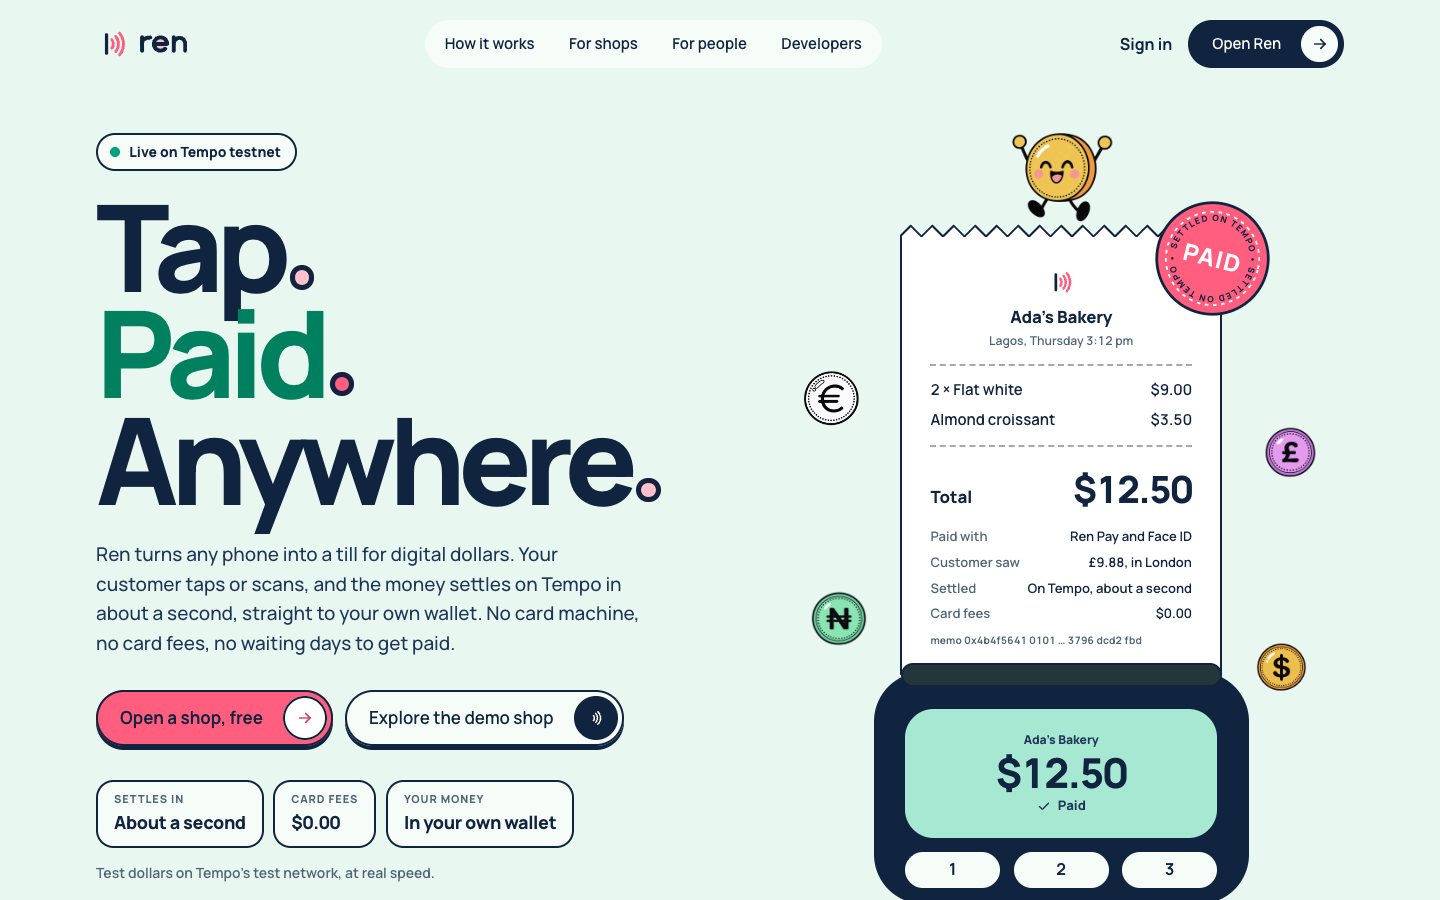
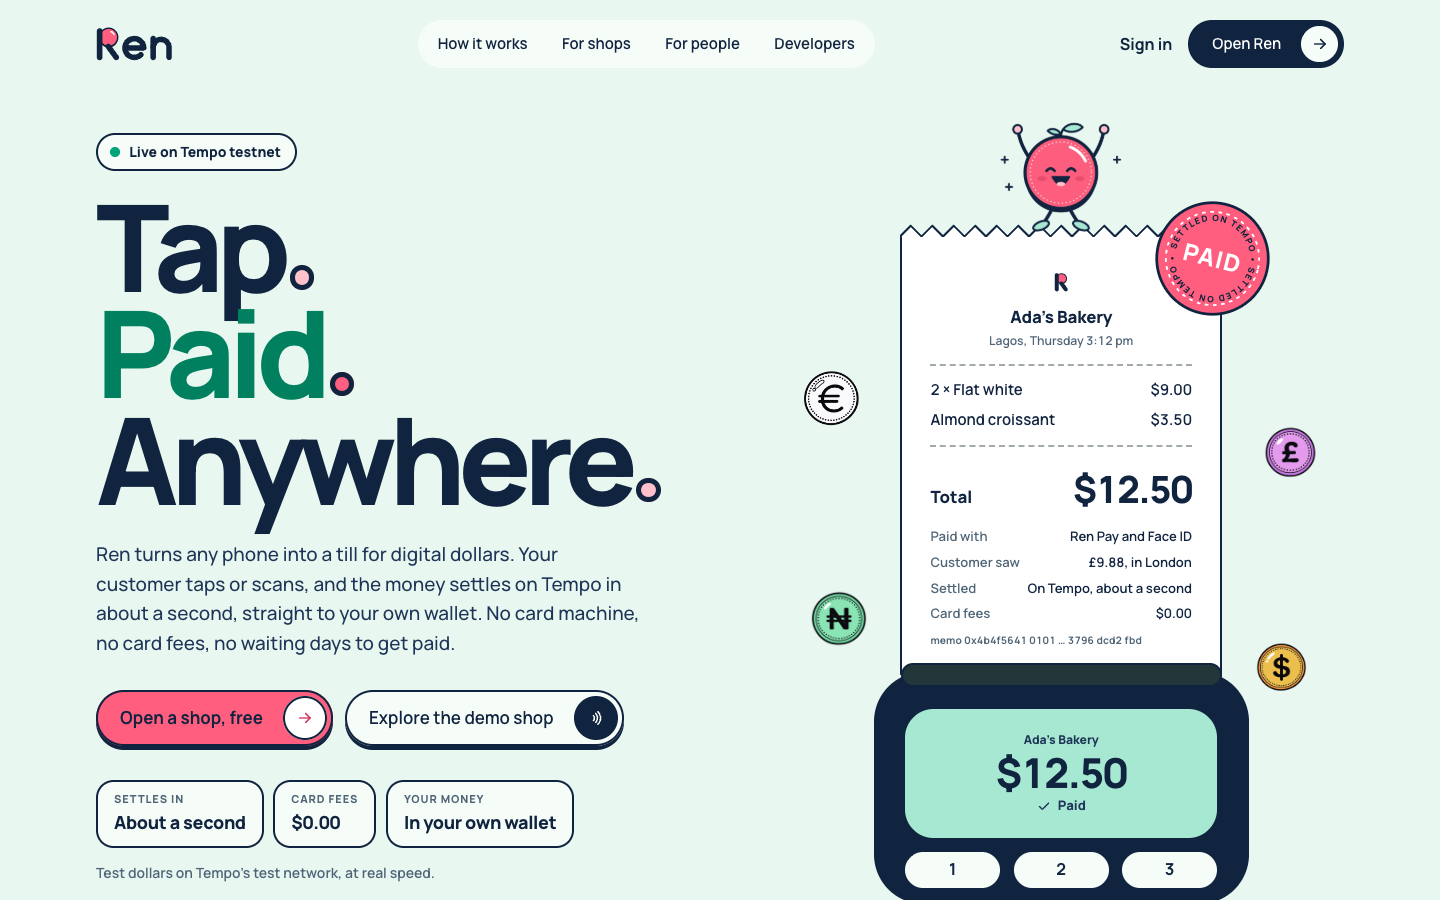
docs: show the R coin and Reni in the README
Fresh web and iOS screenshots with the new logo and mascot; the iOS row
shows Welcome and First run.

Claude-Session: https://claude.ai/code/session_019GbDh3SGeNszh631sn6uHH

diff --git a/README.md b/README.md
@@ -49,7 +49,7 @@ and on whose behalf, plus the network fee, so nobody needs a gas token to pay fo
 
 <table>
   <tr>
-    <td width="33%"><img src="docs/screenshots/ren/web-wallet-first-run.png" alt="A new wallet: zero balance, Kovi catching a coin, and three things to try"></td>
+    <td width="33%"><img src="docs/screenshots/ren/web-wallet-first-run.png" alt="A new wallet: zero balance, Reni catching a coin, and three things to try"></td>
     <td width="33%"><img src="docs/screenshots/ren/web-wallet-phone.png" alt="Wallet home on a phone: the balance, Pay, Send, Request and your shop"></td>
     <td width="33%"><img src="docs/screenshots/ren/web-dashboard-phone.png" alt="The shop dashboard on a phone: taken today, payments, average and card fees"></td>
   </tr>
@@ -68,13 +68,13 @@ and on whose behalf, plus the network fee, so nobody needs a gas token to pay fo
 
 <table>
   <tr>
-    <td width="33%"><img src="docs/screenshots/ren/app-first-run.png" alt="The iOS app's first run: an honest $0.00, Add $5 free, and three things to try"></td>
-    <td width="33%"><img src="docs/screenshots/ren/app-shop-today.png" alt="Shop mode's Today on iOS: taken today rolled in, stat tiles and the day's chart"></td>
+    <td width="33%"><img src="docs/screenshots/ren/app-welcome.png" alt="The iOS app's welcome: the Ren wordmark, Reni flying a paper plane between two shops, and Create my wallet"></td>
+    <td width="33%"><img src="docs/screenshots/ren/app-first-run.png" alt="The iOS app's first run: an honest $0.00, Add $5 free, Reni, and three things to try"></td>
     <td width="33%" valign="top"><img src="docs/screenshots/ren/app-home-recent.png" alt="Home on iOS: your shop's day and the payments that just arrived"></td>
   </tr>
   <tr>
+    <td><sub><b>Welcome.</b> One passkey, no seed phrase.</sub></td>
     <td><sub><b>First run</b> on iOS.</sub></td>
-    <td><sub><b>Shop mode, Today.</b> The phone is the till.</sub></td>
     <td><sub><b>Home.</b> Your shop's day and who just paid you.</sub></td>
   </tr>
 </table>
@@ -104,7 +104,7 @@ sequenceDiagram
     R->>T: Sponsors the fee and submits it
     T-->>R: Included in a ~0.5 s block, and final
     R->>R: Verifies the receipt: token, amount, recipient, memo
-    R-->>S: Paid. The tape prints and Kovi hops
+    R-->>S: Paid. The tape prints and Reni hops
 ```
 
 Every payment carries the charge's id in its memo. That is how an on-chain transfer is matched to
@@ -161,7 +161,8 @@ in [`docs/market`](docs/market).
 
 Ren's look is called Soda: mint paper, green for money at rest, watermelon for paying, navy ink,
 2px ink outlines, and a solid ink shadow that buttons press into. Type is Manrope, with tabular
-figures so amounts never jump. Kovi, the coin, shows up when money moves. Every screen is built
+figures so amounts never jump. The logo is the R coin: a capital R whose bowl is a coin, sitting
+on the same ink shadow. Reni, a watermelon coin with a sprout, shows up when money moves. Every screen is built
 for a phone first and gets a real desktop layout. Text meets WCAG contrast on its background,
 and every animation stops for people who ask for reduced motion.
 
